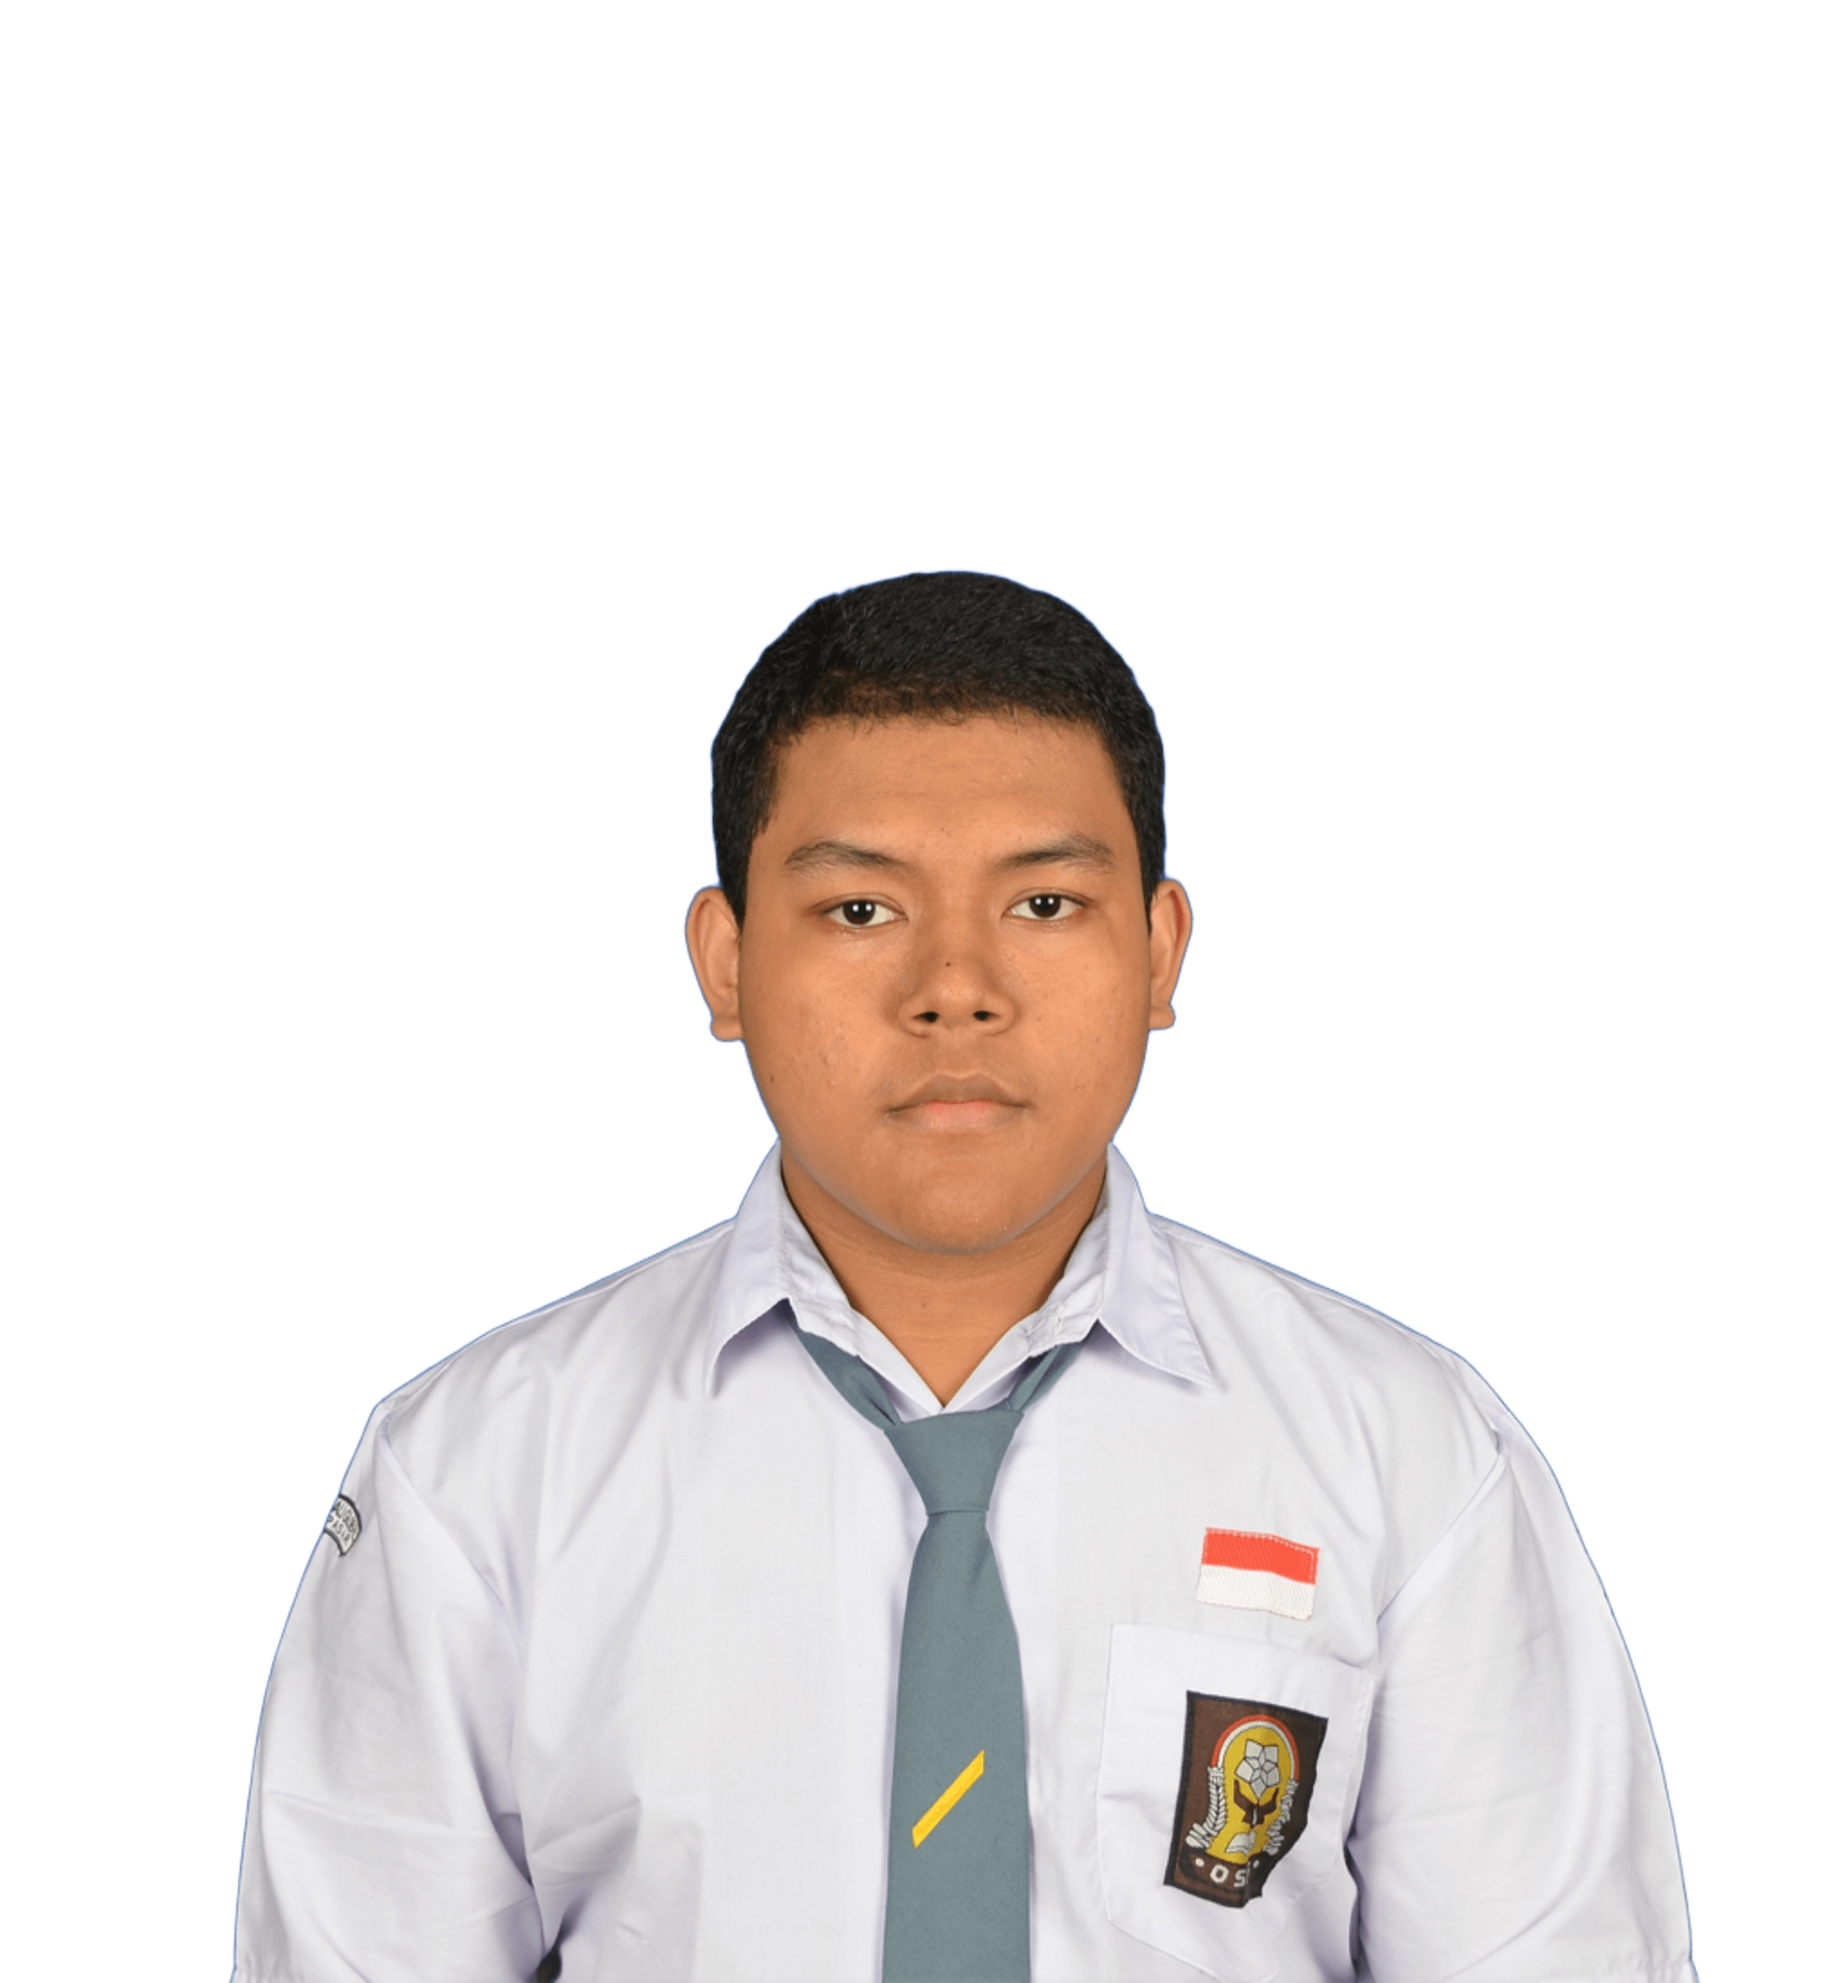
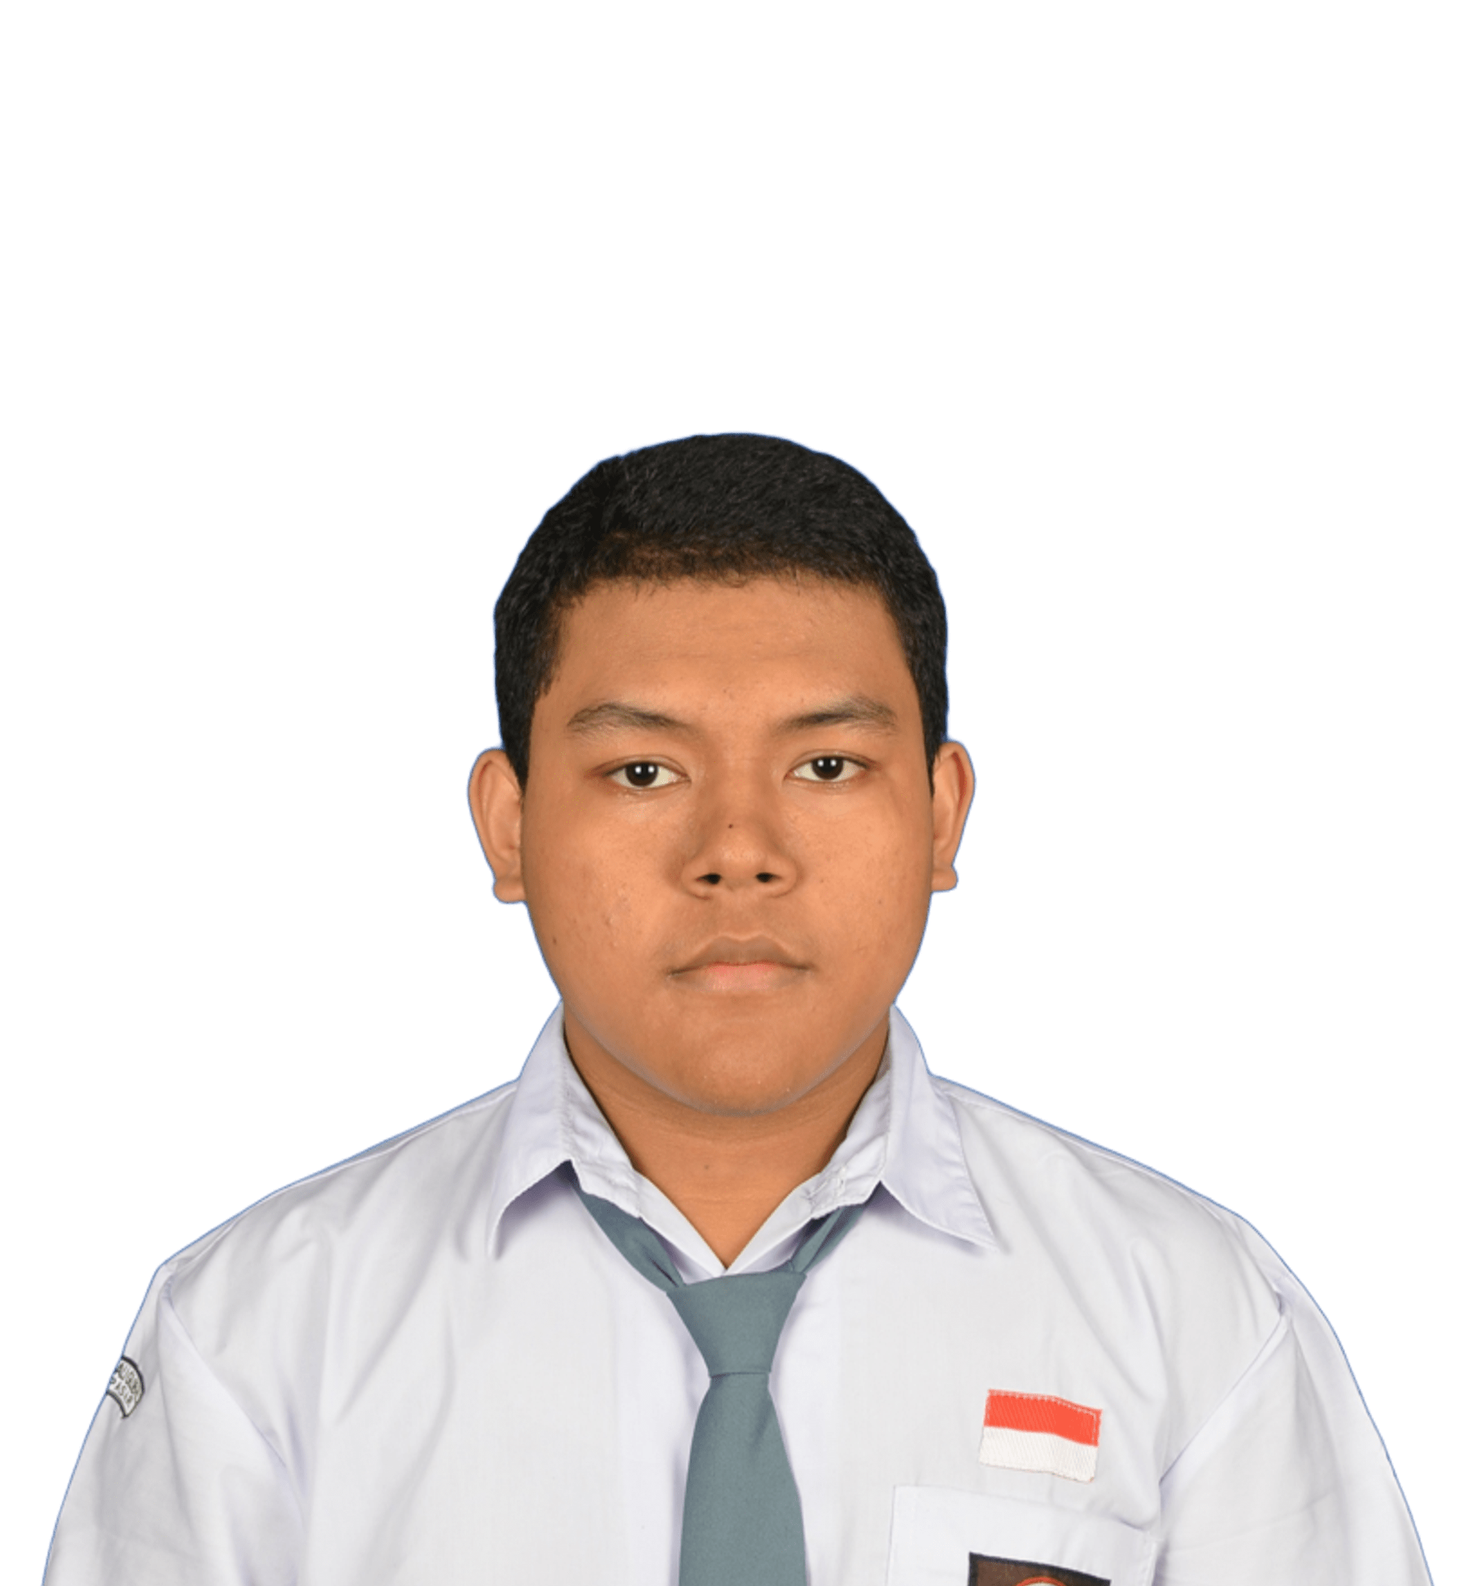
chore: make UI more responsive

diff --git a/app/page.tsx b/app/page.tsx
@@ -6,18 +6,18 @@ import { ReactTyped } from "react-typed";
 export default function Home() {
   return (
     <>
-      <section className="pt-36 pb-36 transition duration-300 ease-in-out bg-dark h-screen">
-        <div className="container px-16">
-          <div className="flex flex-wrap">
-            <div className="w-full self-center px-4 lg:w-2/5">
-              <h1 className="text-base font-semibold text-indigo-500 md:text-xl">
+      <section className="min-h-screen flex items-center py-8 lg:py-36 transition duration-300 ease-in-out">
+        <div className="container mx-auto px-4 sm:px-6 lg:px-16 max-w-7xl">
+          <div className="flex flex-col lg:flex-row lg:items-center gap-8 lg:gap-12">
+            <div className="w-full lg:w-1/2 text-center lg:text-left order-2 lg:order-1">
+              <h1 className="text-md sm:text-xl md:text-2xl font-semibold text-indigo-500">
                 Halo, Aku
-                <span className="mt-1 block text-3xl font-bold text-white lg:text-5xl">
-                  Gusti Ngurah Andhika!
+                <span className="mt-1 block text-2xl sm:text-3xl md:text-4xl lg:text-5xl xl:text-6xl font-bold text-white leading-tight">
+                  Gusti Ngurah Andhika
                 </span>
               </h1>
 
-              <h2 className="mb-8 mt-2 text-md md:text-lg font-medium text-white/80 lg:mt-3 lg:text-xl">
+              <h2 className="mb-6 sm:mb-8 mt-2 lg:mt-3 text-base sm:text-lg md:text-xl lg:text-xl font-medium text-white/80">
                 Saya Junior -{" "}
                 <ReactTyped
                   strings={[
@@ -27,44 +27,46 @@ export default function Home() {
                   ]}
                   typeSpeed={40}
                   loop
+                  backDelay={2000}
                   backSpeed={15}
                   className="font-bold text-white"
                 />
               </h2>
 
-              <p className="text-gray-300 mb-10 text-sm leading-relaxed sm:text-base">
-                Full-stack developer di Indonesia, dan juga seorang pelajar.
-                <span className="block">
-                  Suka robotics, web development, dan hal-hal teknologi lainnya.
-                </span>
+              <p className="text-gray-300 mb-8 sm:mb-10 text-sm sm:text-base lg:text-lg leading-relaxed max-w-xl mx-auto lg:mx-0">
+                Full-stack developer di Indonesia, dan juga seorang pelajar.{" "}
+                Suka robotics, web-development, dan hal-hal teknologi lainnya.
               </p>
             </div>
-            <div className="w-full self-end px-4 lg:w-1/2">
-              <div className="relative mt-10 lg:right-0 lg:mt-0">
-                <Image
-                  alt="Gusti Ngurah Andhika"
-                  src="/me/formal.png"
-                  className="relative z-[1] mx-auto max-w-full"
-                  width={417}
-                  height={598}
-                />
-                <span className="absolute bottom-20 left-1/2 -translate-x-1/2 md:scale-125">
-                  <svg
-                    id="visual"
-                    viewBox="0 0 400 400"
-                    width="400"
-                    height="400"
-                    xmlns="http://www.w3.org/2000/svg"
-                    version="1.1"
-                  >
-                    <g transform="translate(198.65073583466403 179.3546243623096)">
-                      <path
-                        d="M73 -86.6C89.9 -72.9 95.7 -45.4 107.2 -13.9C118.7 17.6 136 53 125.9 74.8C115.9 96.6 78.5 104.7 41.5 121.2C4.6 137.8 -31.9 162.9 -55.8 153.9C-79.7 145 -90.9 102 -102.2 66.7C-113.4 31.3 -124.7 3.7 -126.1 -28.1C-127.5 -59.9 -119 -95.8 -96.4 -108.5C-73.7 -121.2 -36.9 -110.6 -4.4 -105.4C28.1 -100.1 56.1 -100.2 73 -86.6"
-                        fill="#4f39f6"
-                      ></path>
-                    </g>
-                  </svg>
-                </span>
+
+            <div className="w-full lg:w-1/2 order-1 lg:order-2">
+              <div className="relative flex justify-center lg:justify-end">
+                <div className="relative w-full max-w-xs sm:max-w-sm md:max-w-md lg:max-w-lg xl:max-w-xl">
+                  <Image
+                    alt="Gusti Ngurah Andhika"
+                    src="/me/formal2.png"
+                    className="relative z-10 w-full h-auto object-contain"
+                    width={417}
+                    height={598}
+                    priority
+                  />
+                  <div className="absolute top-8 sm:top-12 md:top-16 left-1/2 -translate-x-1/2 w-3/4 sm:w-4/5 md:w-full max-w-sm -z-0">
+                    <svg
+                      id="visual"
+                      viewBox="0 0 400 400"
+                      className="w-full h-auto"
+                      xmlns="http://www.w3.org/2000/svg"
+                      version="1.1"
+                    >
+                      <g transform="translate(184.66884202802652 221.06619564306536)">
+                        <path
+                          d="M103 -109.7C129.7 -76.4 144.9 -38.2 141.1 -3.8C137.3 30.6 114.6 61.3 87.9 86.6C61.3 111.9 30.6 132 0.4 131.6C-29.9 131.3 -59.9 110.5 -76.5 85.2C-93.2 59.9 -96.6 29.9 -102.9 -6.2C-109.1 -42.4 -118.2 -84.9 -101.5 -118.2C-84.9 -151.5 -42.4 -175.8 -2.1 -173.6C38.2 -171.5 76.4 -143 103 -109.7"
+                          fill="#4f39f6"
+                        />
+                      </g>
+                    </svg>
+                  </div>
+                </div>
               </div>
             </div>
           </div>
